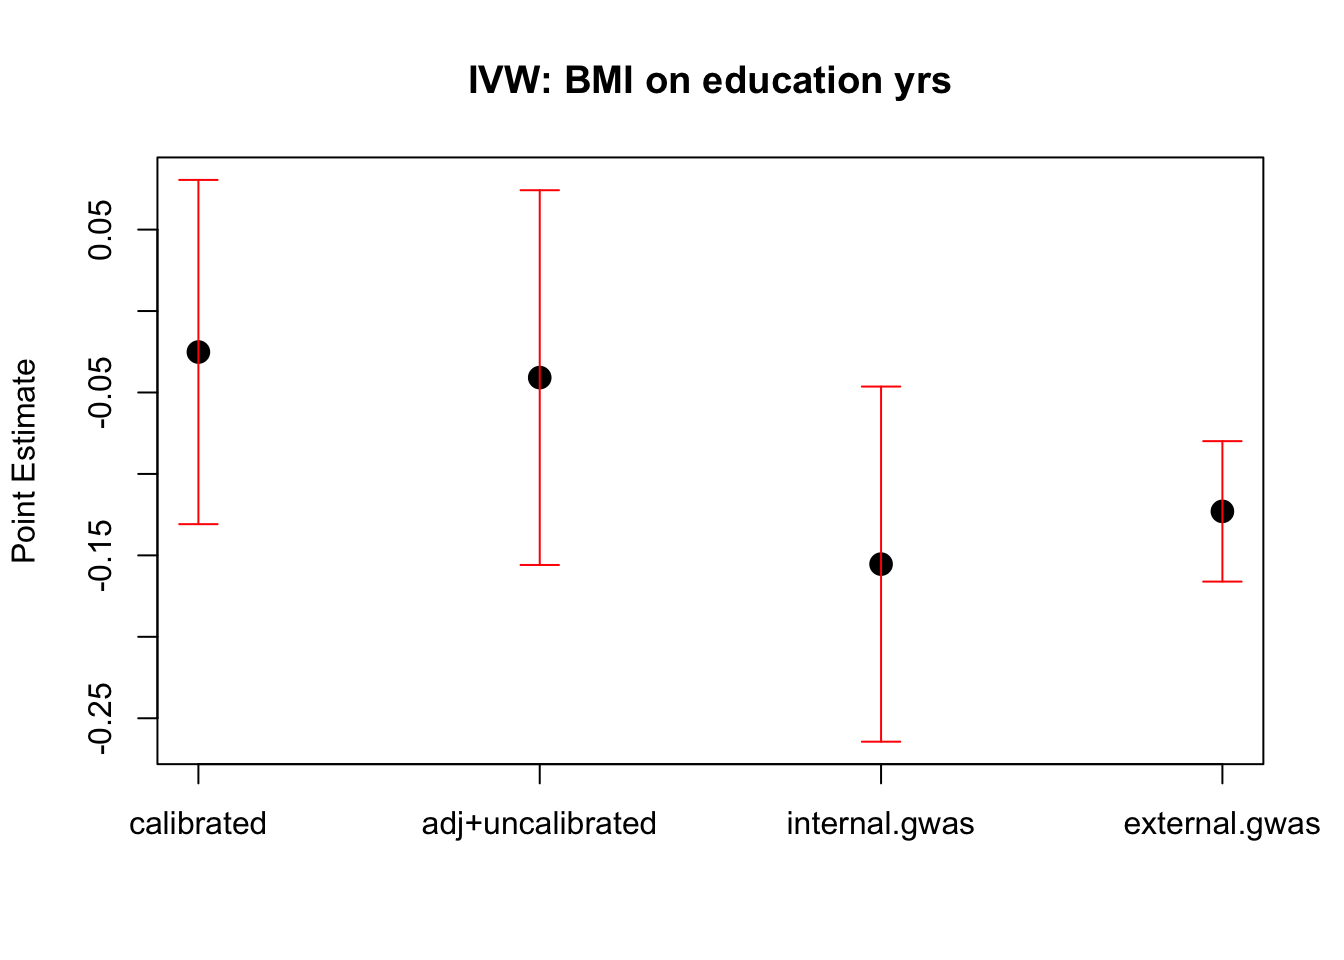
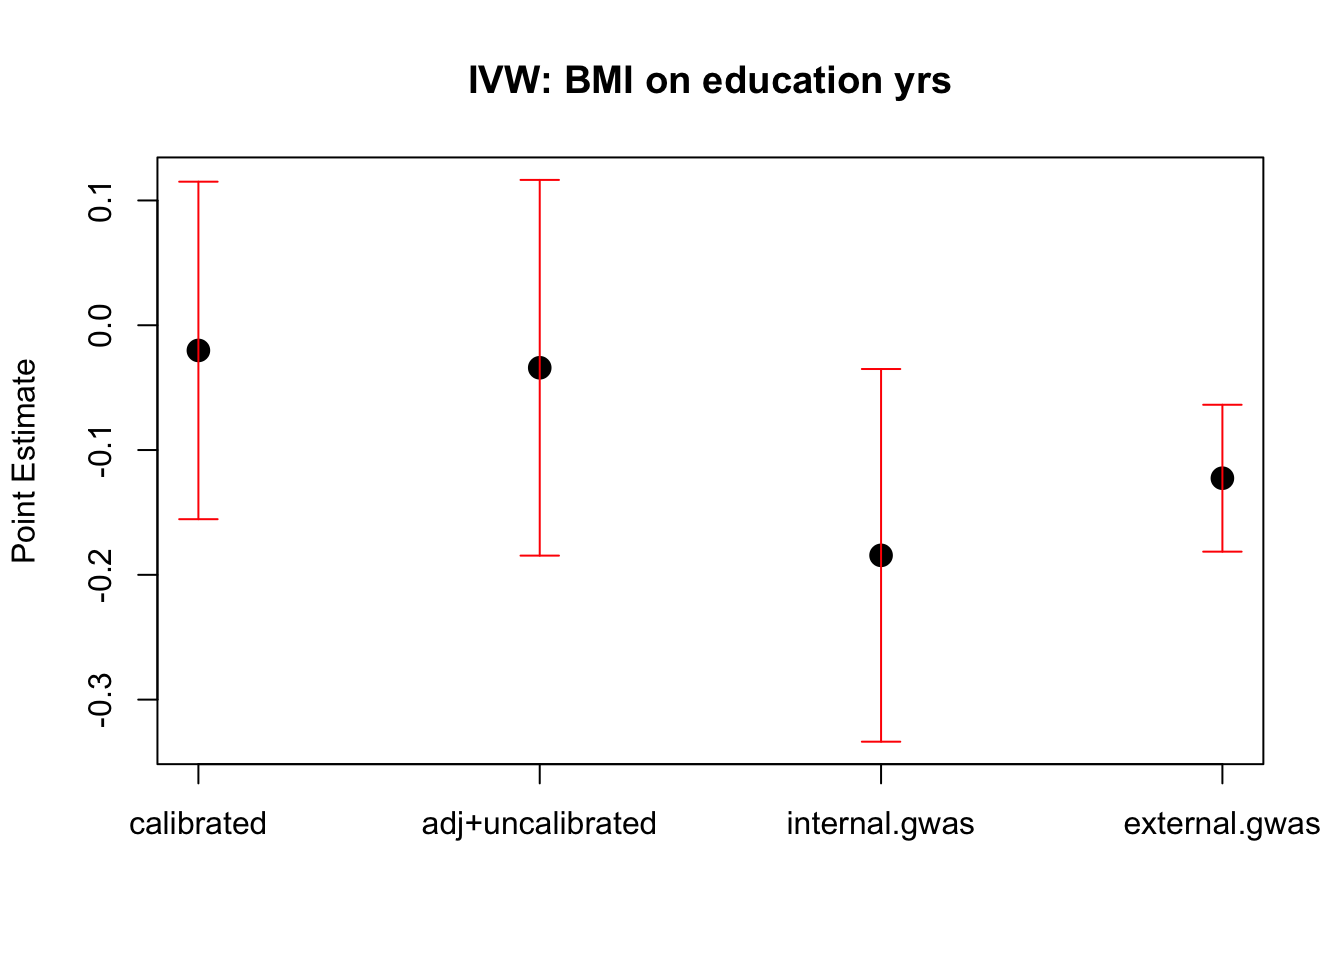
Build site.

diff --git a/docs/ukb_mr_sibling.html b/docs/ukb_mr_sibling.html
@@ -474,16 +474,16 @@ This reproducible <a href="http://rmarkdown.rstudio.com">R Markdown</a> analysis
 <div class="panel panel-default">
 <div class="panel-heading">
 <p class="panel-title">
-<a data-toggle="collapse" data-parent="#workflowr-checks" href="#strongRepositoryversionstrongahrefhttpsgithubcomyunqiyang0215simulationcalibratedmrtree4dc981dfd7b88e6ffc51c20f052be548b2cc52a5targetblank4dc981da"> <span class="glyphicon glyphicon-ok text-success" aria-hidden="true"></span> <strong>Repository version:</strong> <a href="https://github.com/yunqiyang0215/simulation-calibrated-mr/tree/4dc981dfd7b88e6ffc51c20f052be548b2cc52a5" target="_blank">4dc981d</a> </a>
+<a data-toggle="collapse" data-parent="#workflowr-checks" href="#strongRepositoryversionstrongahrefhttpsgithubcomyunqiyang0215simulationcalibratedmrtreecb858dd0328f6e0a310055ae9f120e0cafb9da91targetblankcb858dda"> <span class="glyphicon glyphicon-ok text-success" aria-hidden="true"></span> <strong>Repository version:</strong> <a href="https://github.com/yunqiyang0215/simulation-calibrated-mr/tree/cb858dd0328f6e0a310055ae9f120e0cafb9da91" target="_blank">cb858dd</a> </a>
 </p>
 </div>
[2 lines of base64/hex data omitted]
 <div class="panel-body">
 <p>
 Great! You are using Git for version control. Tracking code development and connecting the code version to the results is critical for reproducibility.
 </p>
 <p>
-The results in this page were generated with repository version <a href="https://github.com/yunqiyang0215/simulation-calibrated-mr/tree/4dc981dfd7b88e6ffc51c20f052be548b2cc52a5" target="_blank">4dc981d</a>. See the <em>Past versions</em> tab to see a history of the changes made to the R Markdown and HTML files.
+The results in this page were generated with repository version <a href="https://github.com/yunqiyang0215/simulation-calibrated-mr/tree/cb858dd0328f6e0a310055ae9f120e0cafb9da91" target="_blank">cb858dd</a>. See the <em>Past versions</em> tab to see a history of the changes made to the R Markdown and HTML files.
 </p>
 <p>
 Note that you need to be careful to ensure that all relevant files for the analysis have been committed to Git prior to generating the results (you can use <code>wflow_publish</code> or <code>wflow_git_commit</code>). workflowr only checks the R Markdown file, but you know if there are other scripts or data files that it depends on. Below is the status of the Git repository when the results were generated:
@@ -531,6 +531,40 @@ Message
 </tr>
 </thead>
 <tbody>
+<tr>
+<td>
+Rmd
+</td>
+<td>
+<a href="https://github.com/yunqiyang0215/simulation-calibrated-mr/blob/cb858dd0328f6e0a310055ae9f120e0cafb9da91/analysis/ukb_mr_sibling.Rmd" target="_blank">cb858dd</a>
+</td>
+<td>
+yunqiyang0215
+</td>
+<td>
+2024-05-24
+</td>
+<td>
+wflow_publish("analysis/ukb_mr_sibling.Rmd")
+</td>
+</tr>
+<tr>
+<td>
+html
+</td>
+<td>
+<a href="https://rawcdn.githack.com/yunqiyang0215/simulation-calibrated-mr/45af8f0684e66d11a957c77c1cbefbb71c270f09/docs/ukb_mr_sibling.html" target="_blank">45af8f0</a>
+</td>
+<td>
+yunqiyang0215
+</td>
+<td>
+2024-05-24
+</td>
+<td>
+Build site.
+</td>
+</tr>
 <tr>
 <td>
 Rmd
@@ -963,6 +997,17 @@ Date
 <tbody>
 <tr>
 <td>
+<a href="https://github.com/yunqiyang0215/simulation-calibrated-mr/blob/45af8f0684e66d11a957c77c1cbefbb71c270f09/docs/figure/ukb_mr_sibling.Rmd/unnamed-chunk-8-1.png" target="_blank">45af8f0</a>
+</td>
+<td>
+yunqiyang0215
+</td>
+<td>
+2024-05-24
+</td>
+</tr>
+<tr>
+<td>
 <a href="https://github.com/yunqiyang0215/simulation-calibrated-mr/blob/03df7e39247fdabba91d3ac4ce5ae07b4aa65e18/docs/figure/ukb_mr_sibling.Rmd/unnamed-chunk-8-1.png" target="_blank">03df7e3</a>
 </td>
 <td>
@@ -1075,6 +1120,17 @@ Date
 </tr>
 </thead>
 <tbody>
+<tr>
+<td>
+<a href="https://github.com/yunqiyang0215/simulation-calibrated-mr/blob/45af8f0684e66d11a957c77c1cbefbb71c270f09/docs/figure/ukb_mr_sibling.Rmd/unnamed-chunk-11-1.png" target="_blank">45af8f0</a>
+</td>
+<td>
+yunqiyang0215
+</td>
+<td>
+2024-05-24
+</td>
+</tr>
 <tr>
 <td>
 <a href="https://github.com/yunqiyang0215/simulation-calibrated-mr/blob/03df7e39247fdabba91d3ac4ce5ae07b4aa65e18/docs/figure/ukb_mr_sibling.Rmd/unnamed-chunk-11-1.png" target="_blank">03df7e3</a>
@@ -1210,6 +1266,17 @@ Date
 <tbody>
 <tr>
 <td>
+<a href="https://github.com/yunqiyang0215/simulation-calibrated-mr/blob/45af8f0684e66d11a957c77c1cbefbb71c270f09/docs/figure/ukb_mr_sibling.Rmd/unnamed-chunk-15-1.png" target="_blank">45af8f0</a>
+</td>
+<td>
+yunqiyang0215
+</td>
+<td>
+2024-05-24
+</td>
+</tr>
+<tr>
+<td>
 <a href="https://github.com/yunqiyang0215/simulation-calibrated-mr/blob/508300b45264b29758cb501c74fc5413b1c97f97/docs/figure/ukb_mr_sibling.Rmd/unnamed-chunk-15-1.png" target="_blank">508300b</a>
 </td>
 <td>
@@ -1300,6 +1367,17 @@ Date
 </tr>
 </thead>
 <tbody>
+<tr>
+<td>
+<a href="https://github.com/yunqiyang0215/simulation-calibrated-mr/blob/45af8f0684e66d11a957c77c1cbefbb71c270f09/docs/figure/ukb_mr_sibling.Rmd/unnamed-chunk-18-1.png" target="_blank">45af8f0</a>
+</td>
+<td>
+yunqiyang0215
+</td>
+<td>
+2024-05-24
+</td>
+</tr>
 <tr>
 <td>
 <a href="https://github.com/yunqiyang0215/simulation-calibrated-mr/blob/f25014221d7c57c8238150096499990ab2a74056/docs/figure/ukb_mr_sibling.Rmd/unnamed-chunk-18-1.png" target="_blank">f250142</a>
@@ -1444,6 +1522,43 @@ plot(1:4, point_est, ylim=c(min(point_est - error_bars), max(point_est + error_b
 arrows(1:4, point_est - error_bars, 1:4, point_est + error_bars, angle=90, code=3, length=0.1, col=&#39;red&#39;)
 axis(1, at=1:4, labels=labels)</code></pre>
 <p><img src="figure/ukb_mr_sibling.Rmd/unnamed-chunk-24-1.png" width="672" style="display: block; margin: auto;" /></p>
+<p>
+<button type="button" class="btn btn-default btn-xs btn-workflowr btn-workflowr-fig" data-toggle="collapse" data-target="#fig-unnamed-chunk-24-1">
+Past versions of unnamed-chunk-24-1.png
+</button>
+</p>
+<div id="fig-unnamed-chunk-24-1" class="collapse">
+<div class="table-responsive">
+<table class="table table-condensed table-hover">
+<thead>
+<tr>
+<th>
+Version
+</th>
+<th>
+Author
+</th>
+<th>
+Date
+</th>
+</tr>
+</thead>
+<tbody>
+<tr>
+<td>
+<a href="https://github.com/yunqiyang0215/simulation-calibrated-mr/blob/45af8f0684e66d11a957c77c1cbefbb71c270f09/docs/figure/ukb_mr_sibling.Rmd/unnamed-chunk-24-1.png" target="_blank">45af8f0</a>
+</td>
+<td>
+yunqiyang0215
+</td>
+<td>
+2024-05-24
+</td>
+</tr>
+</tbody>
+</table>
+</div>
+</div>
 </div>
 <div id="mr.raps-2" class="section level4">
 <h4>2. mr.raps</h4>
@@ -1488,7 +1603,44 @@ plot(1:4, point_est, ylim=c(min(point_est - error_bars), max(point_est + error_b
 arrows(1:4, point_est - error_bars, 1:4, point_est + error_bars, angle=90, code=3, length=0.1, col=&#39;red&#39;)
 axis(1, at=1:4, labels=labels)</code></pre>
 <p><img src="figure/ukb_mr_sibling.Rmd/unnamed-chunk-27-1.png" width="672" style="display: block; margin: auto;" /></p>
-<pre class="r"><code>indx = which(pval.ext &lt; 1e-5)
+<p>
+<button type="button" class="btn btn-default btn-xs btn-workflowr btn-workflowr-fig" data-toggle="collapse" data-target="#fig-unnamed-chunk-27-1">
+Past versions of unnamed-chunk-27-1.png
+</button>
+</p>
+<div id="fig-unnamed-chunk-27-1" class="collapse">
+<div class="table-responsive">
+<table class="table table-condensed table-hover">
+<thead>
+<tr>
+<th>
+Version
+</th>
+<th>
+Author
+</th>
+<th>
+Date
+</th>
+</tr>
+</thead>
+<tbody>
+<tr>
+<td>
+<a href="https://github.com/yunqiyang0215/simulation-calibrated-mr/blob/45af8f0684e66d11a957c77c1cbefbb71c270f09/docs/figure/ukb_mr_sibling.Rmd/unnamed-chunk-27-1.png" target="_blank">45af8f0</a>
+</td>
+<td>
+yunqiyang0215
+</td>
+<td>
+2024-05-24
+</td>
+</tr>
+</tbody>
+</table>
+</div>
+</div>
+<pre class="r"><code>indx = which(pval.ext &lt; 1e-8)
 dat1 = dat.exp[indx, ]
 dat2 = dat.out[indx, ]
 
@@ -1540,8 +1692,8 @@ mr = mr_ivw(MRInput)
 res.mr[, 4] = c(mr@Estimate, mr@StdError)</code></pre>
 <pre class="r"><code>res.mr</code></pre>
 <pre><code>           calibrated adj+uncalibrated internal.gwas external.gwas
-point.est -0.02516506      -0.04085770    -0.1553742   -0.12298912
-std        0.05391434       0.05869196     0.0556189    0.02199542</code></pre>
+point.est -0.02018656      -0.03407055   -0.18439400   -0.12257214
+std        0.06899503       0.07680355    0.07618339    0.03002803</code></pre>
 <pre class="r"><code>labels &lt;- c(&#39;calibrated&#39;, &#39;adj+uncalibrated&#39;, &#39;internal.gwas&#39;, &#39;external.gwas&#39;)
 point_est &lt;- res.mr[1, ]
 error_bars &lt;- 1.96 * res.mr[2, ]
@@ -1552,6 +1704,43 @@ plot(1:4, point_est, ylim=c(min(point_est - error_bars), max(point_est + error_b
 arrows(1:4, point_est - error_bars, 1:4, point_est + error_bars, angle=90, code=3, length=0.1, col=&#39;red&#39;)
 axis(1, at=1:4, labels=labels)</code></pre>
 <p><img src="figure/ukb_mr_sibling.Rmd/unnamed-chunk-31-1.png" width="672" style="display: block; margin: auto;" /></p>
+<p>
+<button type="button" class="btn btn-default btn-xs btn-workflowr btn-workflowr-fig" data-toggle="collapse" data-target="#fig-unnamed-chunk-31-1">
+Past versions of unnamed-chunk-31-1.png
+</button>
+</p>
+<div id="fig-unnamed-chunk-31-1" class="collapse">
+<div class="table-responsive">
+<table class="table table-condensed table-hover">
+<thead>
+<tr>
+<th>
+Version
+</th>
+<th>
+Author
+</th>
+<th>
+Date
+</th>
+</tr>
+</thead>
+<tbody>
+<tr>
+<td>
+<a href="https://github.com/yunqiyang0215/simulation-calibrated-mr/blob/45af8f0684e66d11a957c77c1cbefbb71c270f09/docs/figure/ukb_mr_sibling.Rmd/unnamed-chunk-31-1.png" target="_blank">45af8f0</a>
+</td>
+<td>
+yunqiyang0215
+</td>
+<td>
+2024-05-24
+</td>
+</tr>
+</tbody>
+</table>
+</div>
+</div>
 </div>
 <div id="mr.raps-3" class="section level4">
 <h4>2. mr.raps</h4>
@@ -1584,8 +1773,8 @@ stderr = mr$beta.se
 res.mr[, 4] = c(point_est, stderr)</code></pre>
 <pre class="r"><code>res.mr</code></pre>
 <pre><code>           calibrated adj+uncalibrated internal.gwas external.gwas
-point.est -0.03477908      -0.06199037   -0.22025627   -0.13166522
-std        0.07956399       0.09436296    0.08407073    0.01264142</code></pre>
+point.est -0.02509163      -0.04455099   -0.25259326   -0.13014622
+std        0.09334062       0.11506360    0.09582579    0.01470978</code></pre>
 <pre class="r"><code>labels &lt;- c(&#39;calibrated&#39;, &#39;adj+uncalibrated&#39;, &#39;internal.gwas&#39;, &#39;external.gwas&#39;)
 point_est &lt;- res.mr[1, ]
 error_bars &lt;- 1.96 * res.mr[2, ]
@@ -1596,6 +1785,43 @@ plot(1:4, point_est, ylim=c(min(point_est - error_bars), max(point_est + error_b
 arrows(1:4, point_est - error_bars, 1:4, point_est + error_bars, angle=90, code=3, length=0.1, col=&#39;red&#39;)
 axis(1, at=1:4, labels=labels)</code></pre>
 <p><img src="figure/ukb_mr_sibling.Rmd/unnamed-chunk-34-1.png" width="672" style="display: block; margin: auto;" /></p>
+<p>
+<button type="button" class="btn btn-default btn-xs btn-workflowr btn-workflowr-fig" data-toggle="collapse" data-target="#fig-unnamed-chunk-34-1">
+Past versions of unnamed-chunk-34-1.png
+</button>
+</p>
+<div id="fig-unnamed-chunk-34-1" class="collapse">
+<div class="table-responsive">
+<table class="table table-condensed table-hover">
+<thead>
+<tr>
+<th>
+Version
+</th>
+<th>
+Author
+</th>
+<th>
+Date
+</th>
+</tr>
+</thead>
+<tbody>
+<tr>
+<td>
+<a href="https://github.com/yunqiyang0215/simulation-calibrated-mr/blob/45af8f0684e66d11a957c77c1cbefbb71c270f09/docs/figure/ukb_mr_sibling.Rmd/unnamed-chunk-34-1.png" target="_blank">45af8f0</a>
+</td>
+<td>
+yunqiyang0215
+</td>
+<td>
+2024-05-24
+</td>
+</tr>
+</tbody>
+</table>
+</div>
+</div>
 </div>
 </div>
 <div id="bmi-on-education-yrs-1" class="section level3">
